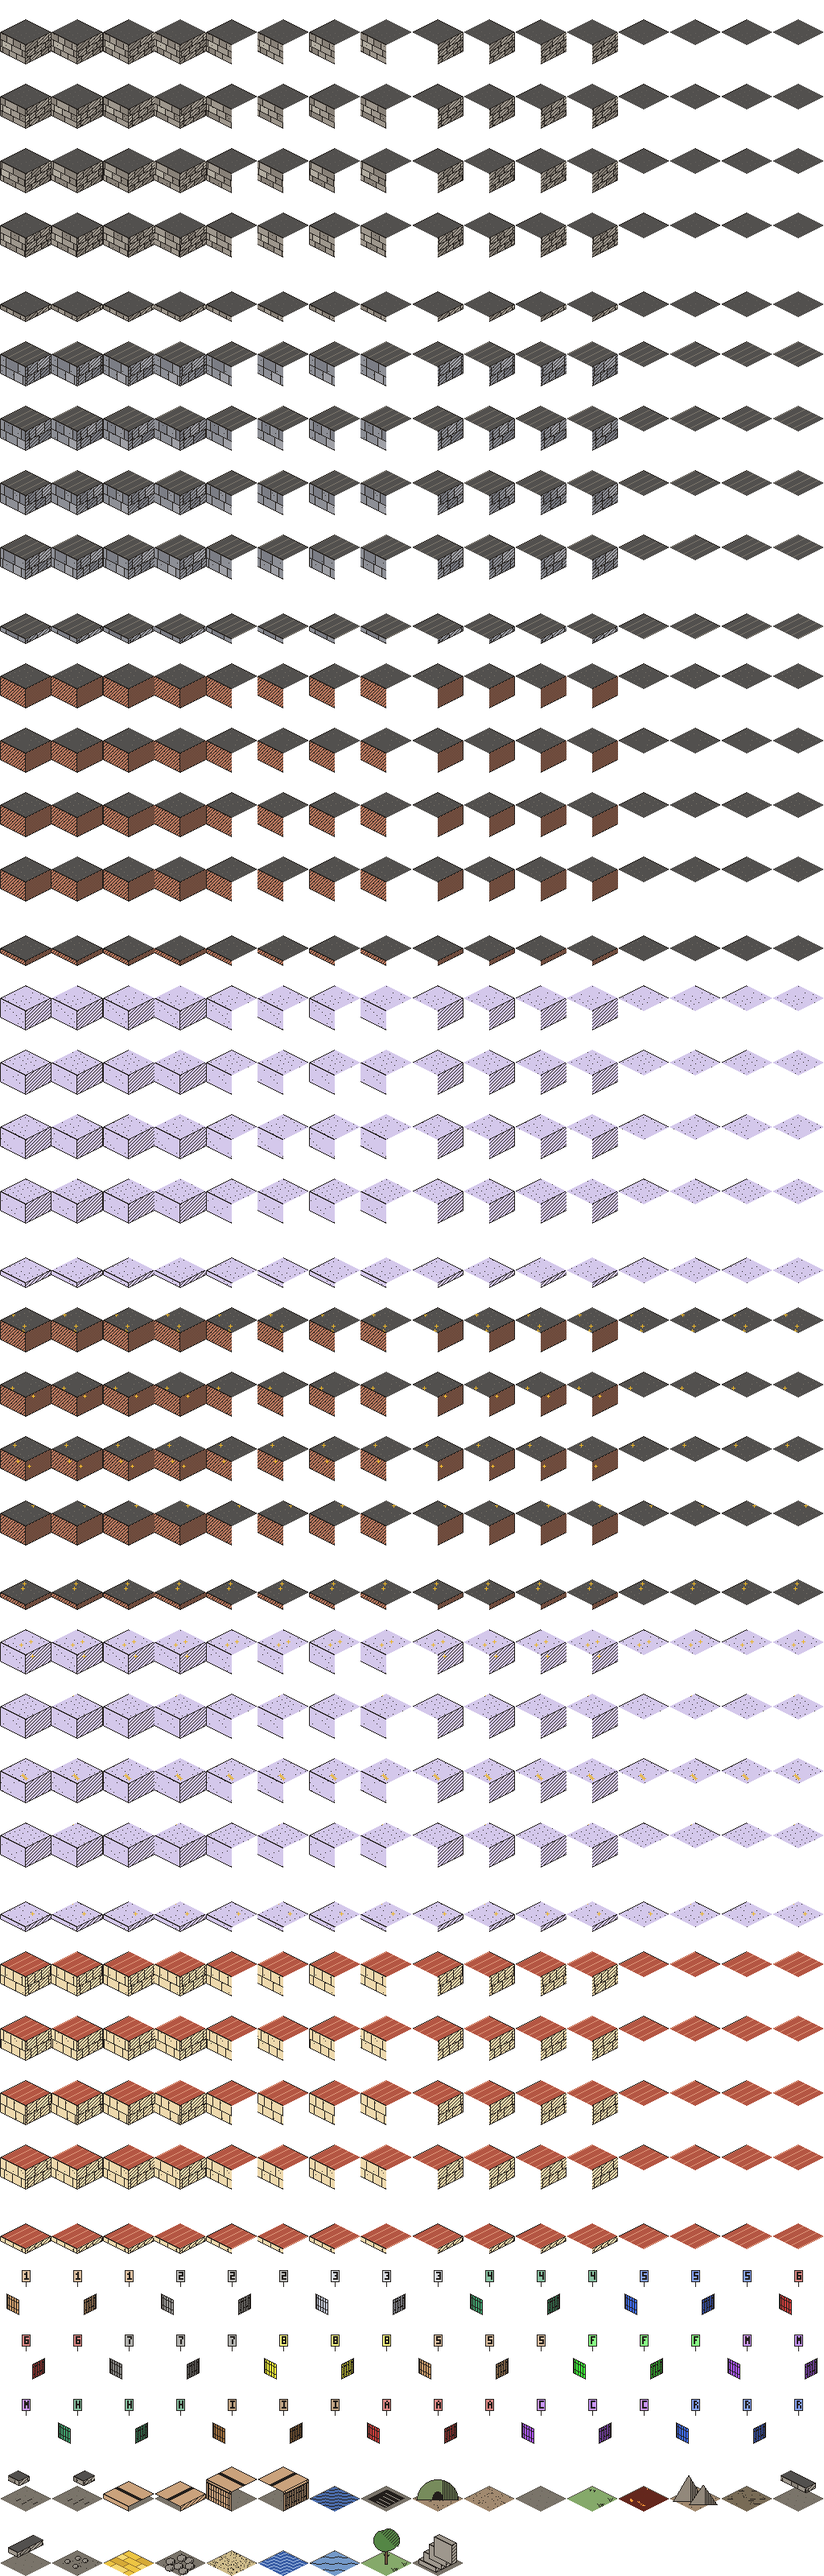
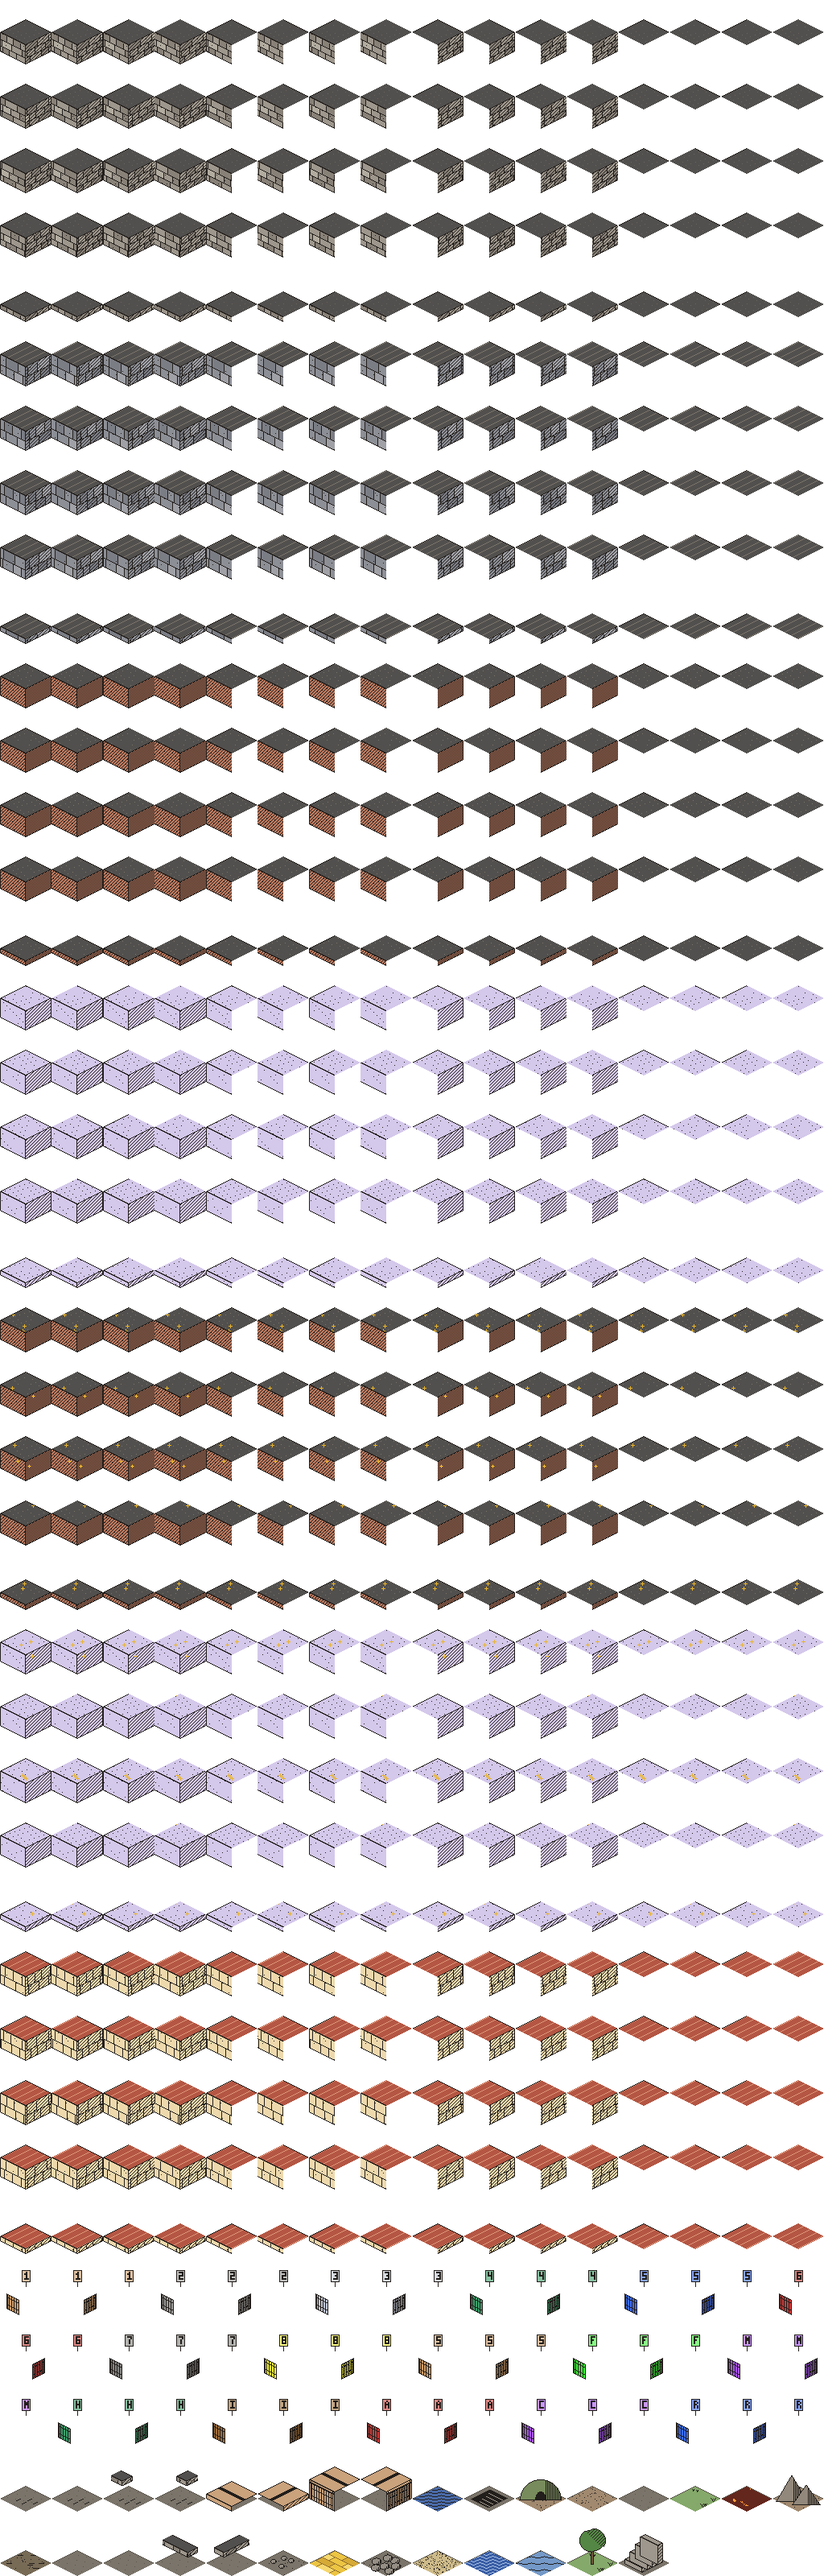
Shops and doorways in front of you are cut down without a gap
Standing in the street behind a shop whose entrance faces away, the
building's squares in front of the character were cut down to their
footings, but the square beside them still hid its face from them: a
shop or a wall counts as wall to its neighbour, so the face it would
have shown to the cut-down one was left off, and the view showed black
through the gap.  Any wall beside a cut-down one did the same.  Now a
square that is not cut down treats a cut-down neighbour as open, and
shows the face and the top's edge it no longer covers; which way a door
or a shop's door faces is still decided by the walls as they stand.

Open and broken doors had no cut-down drawing, so a lintel across the
square in front could cover the character.  Cut down, a doorway is only
the gap between its footings, and a broken door keeps its rubble.  A
closed door already had its sill.

Changed region(s): [[0.125, 0.9375, 0.9375, 1.0], [0.9375, 0.9375, 1.0, 0.9688], [0.0, 0.9688, 0.0625, 1.0]]

diff --git a/src/tcl/iso.c b/src/tcl/iso.c
@@ -374,6 +374,17 @@ static int iso_variant(struct loc grid, int n)
 	return n > 1 ? (int)(h % (uint32_t)n) : 0;
 }
 
+/*
+ * Whether a square is one of the three whose walls would stand in front of
+ * the character, and so is cut down to its footings.
+ */
+static bool iso_cut(struct loc grid)
+{
+	int pdx = grid.x - player->grid.x, pdy = grid.y - player->grid.y;
+
+	return pdx >= 0 && pdy >= 0 && pdx + pdy > 0 && pdx < 2 && pdy < 2;
+}
+
 /* Walls join up with walls, and a shop's door is part of its building's. */
 static bool iso_is_wall(struct loc grid)
 {
@@ -1132,7 +1143,7 @@ static void iso_render(term_data *t)
 	for (s = -smax; s <= smax; s++) {
 		for (d = -dmax; d <= dmax; d++) {
 			struct loc grid;
-			int dx, dy, cx, cy, feat, a, c, fg, tcell, pdx, pdy;
+			int dx, dy, cx, cy, feat, a, c, fg, tcell;
 			bool seen, bright, cut, flat;
 
 			if ((s + d) & 1) continue;
@@ -1141,14 +1152,7 @@ static void iso_render(term_data *t)
 			grid = loc(centre.x + dx, centre.y + dy);
 			if (!square_in_bounds(cave, grid)) continue;
 
-			/*
-			 * The three squares whose walls would stand in front of
-			 * the character are cut down to their footings.
-			 */
-			pdx = grid.x - player->grid.x;
-			pdy = grid.y - player->grid.y;
-			cut = pdx >= 0 && pdy >= 0 && pdx + pdy > 0 && pdx < 2
-				&& pdy < 2;
+			cut = iso_cut(grid);
 
 			cx = vx + (dx - dy) * iso.hw;
 			cy = vy + (dx + dy) * iso.hh;
@@ -1179,6 +1183,18 @@ static void iso_render(term_data *t)
 					| iso_is_wall(loc(grid.x + 1, grid.y)) * 4
 					| iso_is_wall(loc(grid.x, grid.y + 1)) * 8;
 				bool we = mask & (1 | 4), ns = mask & (2 | 8);
+				/*
+				 * A wall beside one that is cut down is no longer
+				 * joined to it: it shows the face, and the edge of
+				 * its top, that the cut-down one no longer covers.
+				 * Which way a door or a shop's door faces is still
+				 * the walls' to say.
+				 */
+				int high = cut ? mask : mask
+					& ~(iso_cut(loc(grid.x - 1, grid.y)) * 1
+						| iso_cut(loc(grid.x, grid.y - 1)) * 2
+						| iso_cut(loc(grid.x + 1, grid.y)) * 4
+						| iso_cut(loc(grid.x, grid.y + 1)) * 8);
 				int ox = cx - iso.tw / 2, oy = cy + ISO_HH - iso.th;
 
 				if (!player->depth && iso.skind[feat]) {
@@ -1189,7 +1205,7 @@ static void iso_render(term_data *t)
 
 				if (kind == ISO_WALL) {
 					if (!cut) cell += 16 * iso_variant(grid, var);
-					iso_blit(t, src, cell + mask, ox, oy, l, tp, r, b);
+					iso_blit(t, src, cell + high, ox, oy, l, tp, r, b);
 				} else if (kind == ISO_DOOR) {
 					iso_blit(t, src, cell + (ns && !we), ox, oy, l, tp,
 						r, b);
@@ -1205,7 +1221,7 @@ static void iso_render(term_data *t)
 						: (south ? 0 : east ? 1 : 2);
 
 					iso_blit(t, src, (cut ? iso.wall_cut[feat]
-						: iso.wall[feat]) + mask, ox, oy, l, tp, r, b);
+						: iso.wall[feat]) + high, ox, oy, l, tp, r, b);
 					if (!cut)
 						iso_blit(t, src, iso.cell[feat] + side, ox, oy,
 							l, tp, r, b);

diff --git a/scripts/tiles/make-iso.py b/scripts/tiles/make-iso.py
@@ -582,12 +582,18 @@ def door_cut(t, ns):
     box(t, sill, hide=8 if ns else 4, zt=CUT_H)
 
 
-def archway(t, ns, rng, broken=False):
-    """An open doorway: the wall carried over the gap on a lintel."""
+def archway(t, ns, rng, broken=False, cut=False):
+    """
+    An open doorway: the wall carried over the gap on a lintel.  In front of
+    the character, where the walls either side are cut down to their
+    footings, it is only the gap between them, and a broken door's rubble.
+    """
     stone = stones(rng)
     mat = {'top': solid(ROCK), 'south': stone, 'east': stones(rng, shade=True)}
     reach = .45 if broken else 1.
-    if ns:
+    if cut:
+        pass
+    elif ns:
         box(t, mat, .3, .7, 0, reach, WALL_H - 6, WALL_H, join=2 | 8)
     else:
         box(t, mat, 0, reach, .3, .7, WALL_H - 6, WALL_H, join=1 | 4)
@@ -826,6 +832,14 @@ def features():
         ground(t)
         archway(t, ns, rng, broken=True)
         out['broken door' + tag] = t
+
+        # With a generator of their own, so that the drawings above, which
+        # share one, come out as they always have.
+        for name, broken in (('open door', False), ('broken door', True)):
+            t = Tile()
+            ground(t)
+            archway(t, ns, mt.Rand(0), broken, cut=True)
+            out[name + ' cut' + tag] = t
 
     return out
 

diff --git a/docs/customize.rst b/docs/customize.rst
@@ -601,11 +601,11 @@ How the window draws is set on the Display page of the Options window
   own pictures, standing on their squares.  Anything the set has no picture
   for stands there as its letter on a black disc.  Traps and runes lie flat on
   the floor instead, and in ASCII they take the place of the floor's dot.
-  Places you haven't found
-  aren't drawn at all, and places you remember are fainter, as they are on the
-  flat map.  Walls just in front of you are cut down to their footings so they
-  never hide you.  The mouse works as it does on the flat map, and the square
-  you look at or aim at gets a yellow ring.
+  Places you haven't found aren't drawn at all, and places you remember are
+  fainter, as they are on the flat map.  Walls, doors and shops just in front
+  of you are cut down to their footings so they never hide you.  The mouse
+  works as it does on the flat map, and the square you look at or aim at gets
+  a yellow ring.
 * **Fonts** sets the font and size of the map, of the text panes beside and
   below it, and of the overhead map.  A pane's font decides how many rows and
   columns fit in it, so a larger font shows less of the map.  **Window text**
